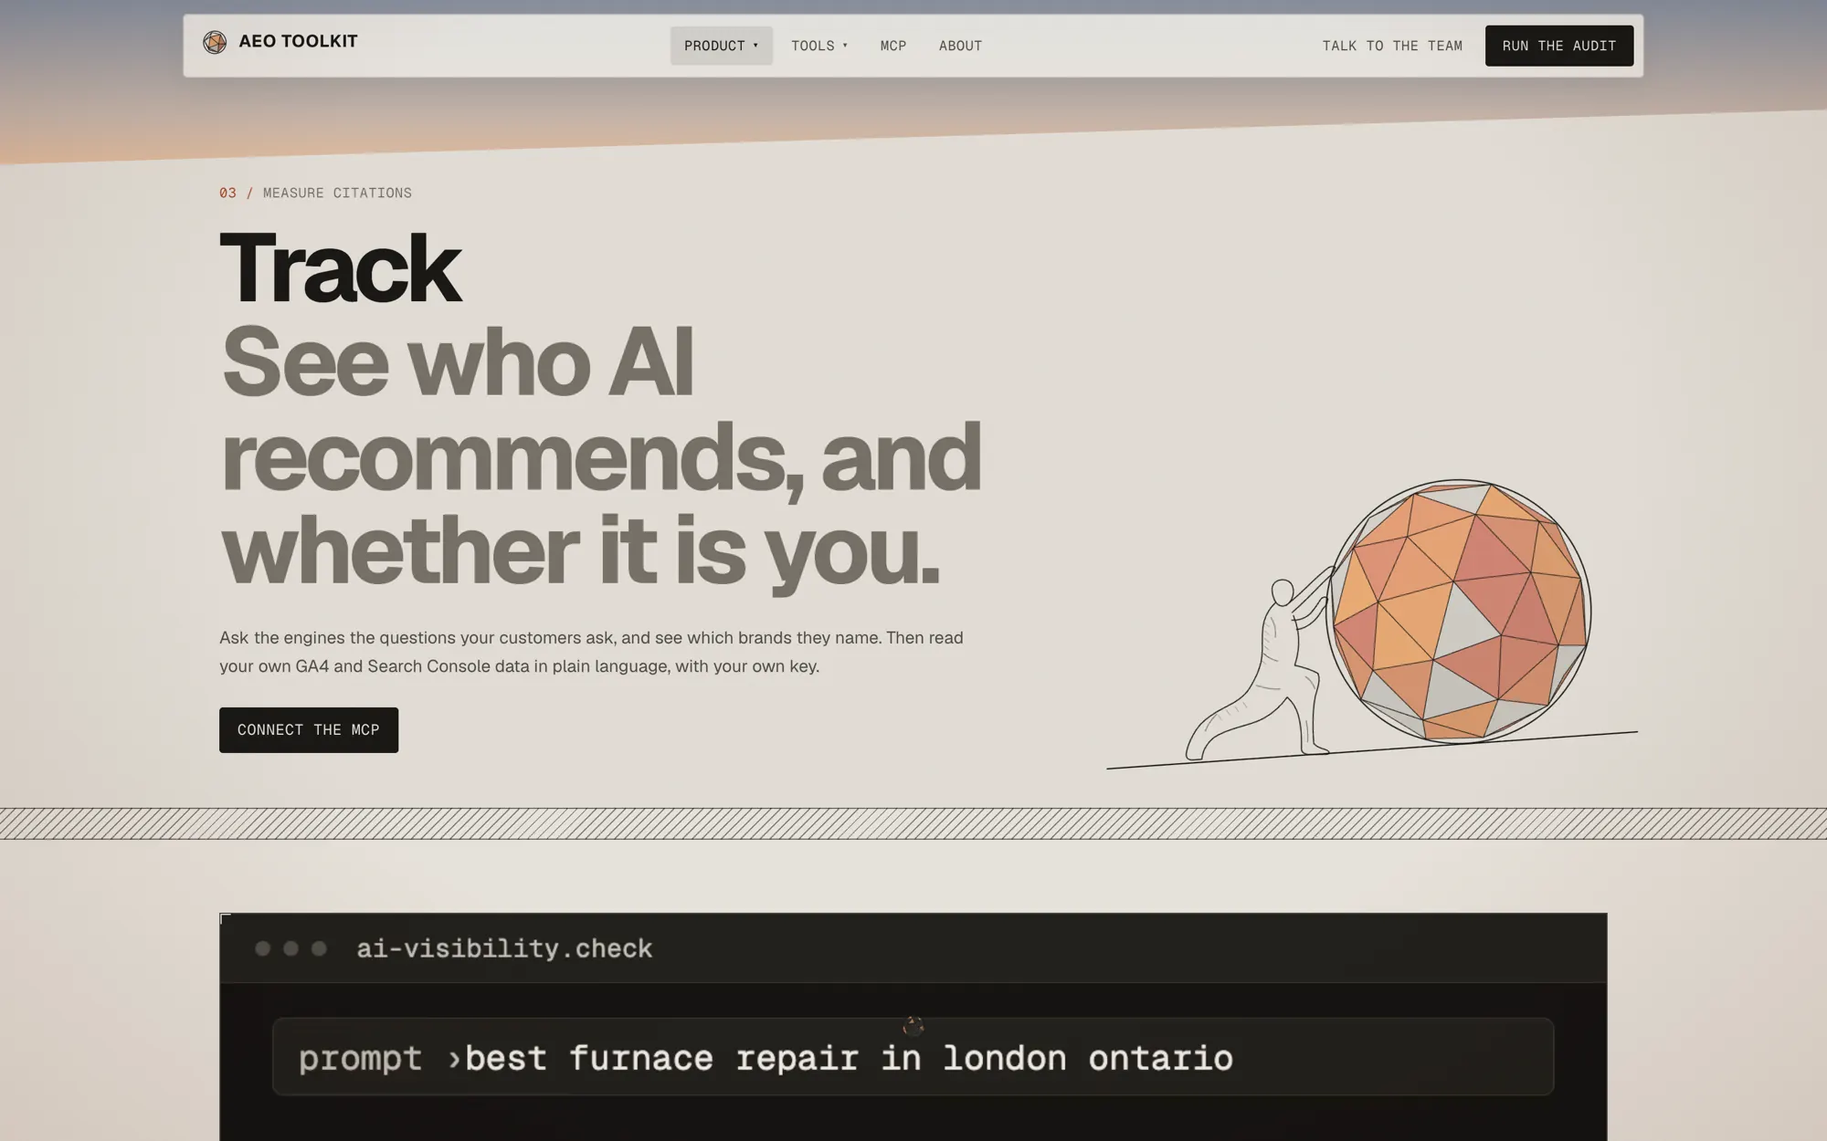
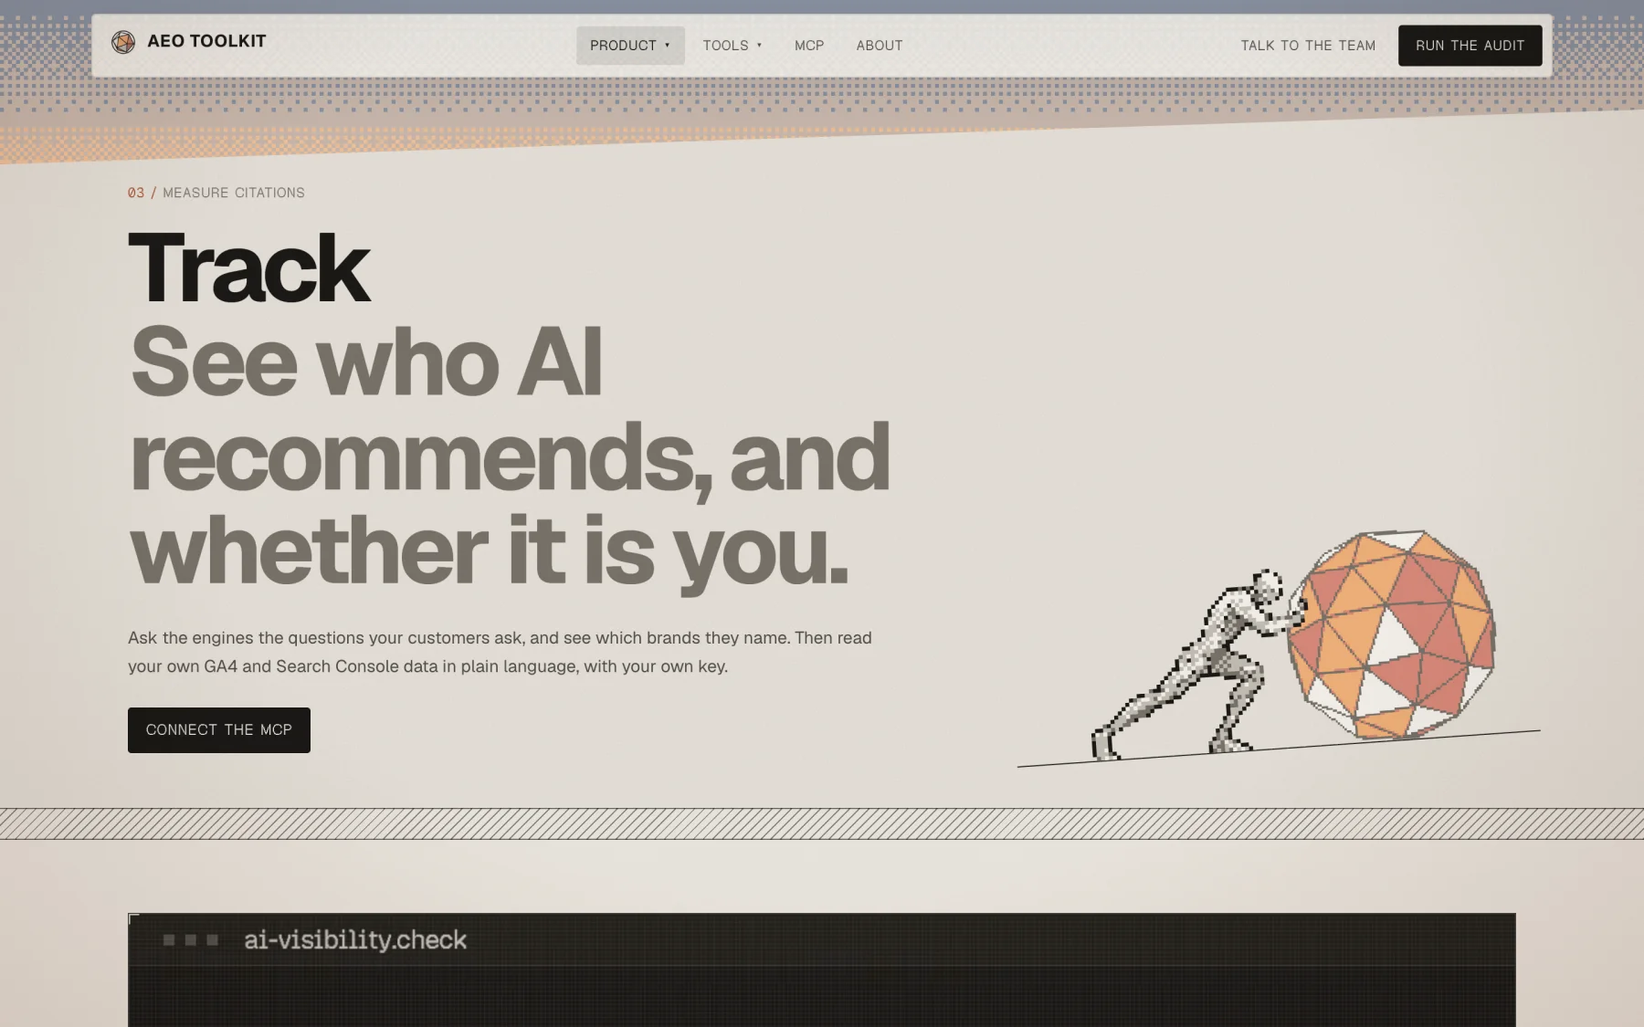
docs(readme): pixel-art branding refresh (#110)
* docs(readme): pixel-art branding refresh

* docs(brand): remove README em dashes, regenerate brand images in the pixel look

---------

Changed region(s): [[0.0, 0.0, 1.0, 0.7467], [0.0, 0.7778, 1.0, 1.0]]

diff --git a/README.md b/README.md
@@ -8,17 +8,17 @@
 
 Open-source AI search optimization: 44 small checks that decide whether ChatGPT, Claude and Perplexity cite you.
 
-<a href="https://advancelabs.dev/tools"><img src="docs/assets/banner.webp" alt="The AEO Toolkit homepage: 'The next big thing will be a lot of small things' beside a faceted sphere being pushed uphill" width="100%"></a>
+<a href="https://advancelabs.dev/tools"><img src="docs/assets/banner.webp" alt="The AEO Toolkit homepage in pixel art: 'The next big thing will be a lot of small things' above a dithered figure pushing a faceted sphere up a slope" width="100%"></a>
 
 [![TypeScript](https://img.shields.io/badge/TypeScript-5.x-3178C6?style=flat-square&logo=typescript&logoColor=white)](https://typescriptlang.org)
-[![License: Apache 2.0](https://img.shields.io/badge/License-Apache_2.0-A8F326?style=flat-square&labelColor=0A0A0B)](LICENSE)
-[![Made by Advance Labs](https://img.shields.io/badge/Made%20by-Advance%20Labs-7C3AED?style=flat-square&labelColor=0A0A0B)](https://advancelabs.dev)
-[![Brand](https://img.shields.io/badge/Brand-guide-B6A4FD?style=flat-square&labelColor=0A0A0B)](brand/README.md)
-[![Chrome Web Store](https://img.shields.io/badge/Chrome_Web_Store-AEO%2FGEO_Auditor-A8F326?style=flat-square&logo=googlechrome&logoColor=white&labelColor=0A0A0B)](https://chromewebstore.google.com/detail/aeogeo-auditor/bdkkjpbipgolopjhndknigaaokdabnad)
+[![License: Apache 2.0](https://img.shields.io/badge/License-Apache_2.0-F2B27A?style=flat-square&labelColor=1A1916)](LICENSE)
+[![Made by Advance Labs](https://img.shields.io/badge/Made%20by-Advance%20Labs-D98A7A?style=flat-square&labelColor=1A1916)](https://advancelabs.dev)
+[![Brand](https://img.shields.io/badge/Brand-guide-F2B27A?style=flat-square&labelColor=1A1916)](brand/README.md)
+[![Chrome Web Store](https://img.shields.io/badge/Chrome_Web_Store-AEO%2FGEO_Auditor-D98A7A?style=flat-square&logo=googlechrome&logoColor=white&labelColor=1A1916)](https://chromewebstore.google.com/detail/aeogeo-auditor/bdkkjpbipgolopjhndknigaaokdabnad)
 
 </div>
 
-> Open-source TypeScript packages for **Answer Engine Optimization (AEO)**, Generative Engine Optimization (GEO), and AI citation visibility. Contributions welcome — see [CONTRIBUTING.md](CONTRIBUTING.md).
+> Open-source TypeScript packages for **Answer Engine Optimization (AEO)**, Generative Engine Optimization (GEO), and AI citation visibility. Contributions welcome, see [CONTRIBUTING.md](CONTRIBUTING.md).
 
 > **Open core.** This repo is the open-source half of the AEO Toolkit: the audit engine, crawler,
 > parser, schema validator and the Chrome extension, all Apache-2.0 and published to npm. The
@@ -27,7 +27,7 @@ Open-source AI search optimization: 44 small checks that decide whether ChatGPT,
 > private repository on 2026-10-20. Code published here before that date stays Apache-2.0.
 
 **Try it without installing anything:** the six browser tools run free in the browser at
-**[advancelabs.dev/tools](https://advancelabs.dev/tools)** — no sign-up, no account.
+**[advancelabs.dev/tools](https://advancelabs.dev/tools)**, with no sign-up and no account.
 Point the auditor at a URL and it returns a weighted, per-rule report in about a minute.
 Want it done for you? Advance Labs runs a [monthly AEO retainer](https://advancelabs.dev/services/ai-visibility).
 
@@ -42,22 +42,22 @@ advancelabs.dev. This repo is the open core: the audit engine packages, the
 
 ## What it looks like
 
-The hosted site is a faceted sphere in which every facet is one of the audit's small checks.
+The hosted site is drawn in dithered pixel art: a figure pushing a faceted sphere up a slope under a dusk sky.
 
 | | |
 |---|---|
-| <img src="docs/assets/step-audit.webp" alt="Step one, crawl and score: a faceted sphere beside a live audit panel"> | <img src="docs/assets/44-checks.webp" alt="The 44 checks, laid out as a grid grouped by category"> |
-| **Crawl and score.** Up to 50 pages against every rule. | **44 small things.** Each check is open source. |
-| <img src="docs/assets/audit-tool.webp" alt="The LLM and Technical SEO Audit tool"> | <img src="docs/assets/track.webp" alt="The Track page: see who AI recommends, and whether it is you"> |
+| <img src="docs/assets/step-audit.webp" alt="Step one, crawl and score: a pixel-art faceted sphere beside a dark audit panel"> | <img src="docs/assets/44-checks.webp" alt="The 44 small things: a category list beside a carousel of check cards, each with its fix"> |
+| **Crawl and score.** Up to 50 pages against every rule. | **44 small things.** Pick a category and flip through the checks. The scoring engine is Apache-2.0. |
+| <img src="docs/assets/audit-tool.webp" alt="The LLM and Technical SEO Audit tool: a URL field and Run audit button on a dark panel"> | <img src="docs/assets/track.webp" alt="The Track page: the pixel figure pushing a dusk-coloured sphere beside the heading about who AI recommends"> |
 | **The audit tool.** Free, no sign-up. | **Track.** See who AI recommends. |
 
-<img src="docs/assets/mcp.webp" alt="The MCP page: connect the three servers to Claude and Cursor" width="100%">
+<img src="docs/assets/mcp.webp" alt="The MCP page: Connect the AEO Toolkit to your AI client" width="100%">
 
 ---
 
 ## What is AEO?
 
-**Answer Engine Optimization (AEO)** is the practice of structuring your content so that AI assistants — ChatGPT, Perplexity, Claude, Gemini — cite your site when answering questions in your domain. Traditional SEO gets you ranked on the blue-link results page. AEO gets you *quoted* in the AI answer.
+**Answer Engine Optimization (AEO)** is the practice of structuring your content so that AI assistants (ChatGPT, Perplexity, Claude, Gemini) cite your site when answering questions in your domain. Traditional SEO gets you ranked on the blue-link results page. AEO gets you *quoted* in the AI answer.
 
 As AI-powered search becomes the default discovery layer, AEO is the new SEO.
 
@@ -163,9 +163,9 @@ console.log(report.topFixes.slice(0, 3).map((f) => f.title))
 ## Connect the MCP servers
 
 The three MCP servers are **hosted, not installed**. They are Streamable-HTTP endpoints, so there is
-nothing to `npm install` and no local process to run — point any MCP client at the URL.
+nothing to `npm install` and no local process to run. Point any MCP client at the URL.
 
-**Claude Code** — one command per server:
+**Claude Code**: one command per server:
 
 ```bash
 claude mcp add --transport http --scope user aeo-visibility https://aeo.advancelabs.dev/api/mcp/ai-visibility/mcp
@@ -176,7 +176,7 @@ claude mcp add --transport http --scope user aeo-search     https://aeo.advancel
 Drop `--scope user` to register them in the current project only. Check the result with
 `claude mcp list`.
 
-**Claude.ai / Claude Desktop** — Settings → Connectors → Add custom connector, then paste the URL.
+**Claude.ai / Claude Desktop**: Settings → Connectors → Add custom connector, then paste the URL.
 
 **Cursor** (`~/.cursor/mcp.json`), Windsurf, or any client that takes a JSON block:
 
@@ -213,12 +213,12 @@ Three things that trip people up:
 
 ## Why AEO?
 
-When a user asks ChatGPT "what is the best tool for X?", the answer comes from indexed content that AI models trust — not from ad-auction bidding. The trust signals for AI citation are:
+When a user asks ChatGPT "what is the best tool for X?", the answer comes from indexed content that AI models trust, not from ad-auction bidding. The trust signals for AI citation are:
 
 - **Structured data** (JSON-LD `Organization`, `FAQPage`, `HowTo`)
-- **`llms.txt`** — the AI equivalent of `robots.txt`
-- **Canonical, server-rendered HTML** — AI crawlers prefer static content
-- **Topical authority** — consistent, in-depth coverage of a topic
+- **`llms.txt`**: the AI equivalent of `robots.txt`
+- **Canonical, server-rendered HTML**: AI crawlers prefer static content
+- **Topical authority**: consistent, in-depth coverage of a topic
 
 AEO Toolkit automates auditing all of these.
 
@@ -241,9 +241,11 @@ Built with [Turborepo](https://turbo.build) · TypeScript 5 · Vitest · React 1
 
 ## Design
 
-Advance Labs' products follow one visual system: a near-black ground, a single acid-green signal
-colour, mono lab-sheet labels, Syne headlines, and the Advance Labs sphere as the mark. The
-palette, type, tokens and rules are in [`brand/README.md`](brand/README.md), with the assets
+The site is pixel art: a figure pushing a faceted sphere under a dithered dusk sky. Art is drawn
+at a coarse cell, snapped to a small palette (ink, paper, two dusk oranges) with a 4x4 Bayer
+ordered dither and scaled up with hard edges. Labels use Geist Pixel Square, headings and body
+Geist Sans, code Geist Mono. Corners are square and shadows are hard-offset. The palette, type,
+tokens and rules are in [`brand/README.md`](brand/README.md), with the assets
 beside it. Anything a user sees should follow it, and
 [`docs/CONVENTIONS.md`](docs/CONVENTIONS.md#design-and-brand) says how in code.
 
@@ -253,16 +255,16 @@ beside it. Anything a user sees should follow it, and
 
 Built and maintained by [Advance Labs](https://advancelabs.dev) · [All Advance Labs products](https://advancelabs.dev/lab)
 
-AEO Toolkit is built and maintained by **[Advance Labs Inc.](https://advancelabs.dev)** — a software studio building [Creatin](https://www.creatin.ca), [Cartrix](https://www.cartrix.live), and this toolkit.
+AEO Toolkit is built and maintained by **[Advance Labs Inc.](https://advancelabs.dev)**, a software studio building [Creatin](https://www.creatin.ca), [Cartrix](https://www.cartrix.live), and this toolkit.
 
-This project dogfoods its own tooling: `advancelabs.dev` ships with `llms.txt`, JSON-LD Organization schema, SSG-rendered pages, and canonical URLs — all patterns the scoring engine teaches.
+This project dogfoods its own tooling: `advancelabs.dev` ships with `llms.txt`, JSON-LD Organization schema, SSG-rendered pages, and canonical URLs, all patterns the scoring engine teaches.
 
 ---
 
 ## Code of Conduct
 
-We follow the [Contributor Covenant](https://www.contributor-covenant.org/version/2/1/code_of_conduct/) — be respectful and constructive in all project spaces, and report unacceptable behavior to [conduct@advancelabs.dev](mailto:conduct@advancelabs.dev).
+We follow the [Contributor Covenant](https://www.contributor-covenant.org/version/2/1/code_of_conduct/): be respectful and constructive in all project spaces, and report unacceptable behavior to [conduct@advancelabs.dev](mailto:conduct@advancelabs.dev).
 
 ---
 
-<sub>© 2026 Advance Labs Inc. — <a href="https://advancelabs.dev">advancelabs.dev</a></sub>
+<sub>© 2026 Advance Labs Inc. · <a href="https://advancelabs.dev">advancelabs.dev</a></sub>

diff --git a/brand/README.md b/brand/README.md
@@ -1,115 +1,83 @@
-# AEO Toolkit — Brand
+# AEO Toolkit: Brand
 
 > **2026-10-20:** `apps/console` and the internal packages it uses moved to a private repository.
 > References to them below describe the hosted platform; the code is no longer in this repo.
 
-The brand that shipped with the September 2026 website redesign. In one line: **a calibrated
-instrument, printed.** Near-black ground, one acid-green signal colour, violet as the
-secondary, mono labels like the margin notes on a lab sheet, Syne headlines, and the AEO
-Toolkit mark, "the climb", a sphere with a rising line.
+The brand that shipped with the October 2026 pixel-art redesign. In one line: **a dusk sky, a
+figure and a sphere, drawn in coarse dithered pixels.** Warm paper ground, ink text, two dusk
+oranges as the only colour, Geist Pixel labels, and a faceted sphere as the mark. The line it
+carries: *The next big thing will be a lot of small things.*
 
 ## Mark
 
-The mark is **the climb**: the Advance Labs sphere carrying a Signal-green rising line. It
-replaces the plain sphere, which now stays the studio mark on advancelabs.dev only.
+The mark is the faceted sphere: flat facets, lit faces in dusk, unlit faces in card, lines in faint ink.
 
 | File | Use |
 |------|-----|
-| [`mark-256.png`](mark-256.png) | The mark alone, square, transparent. In-page logos, READMEs. |
-| [`icon-256.png`](icon-256.png) | The mark on a rounded `#0A0A0B` tile. Favicons, app icons, avatars. |
-| [`mark-512.png`](mark-512.png) | Same, for social cards, README and print. |
-| [`logo-dark.png`](logo-dark.png) | Horizontal lockup (mark + wordmark in Signal green) for **dark** backgrounds. Transparent. |
+| [`aeo-toolkit-mark-256.png`](aeo-toolkit-mark-256.png), [`mark-256.png`](mark-256.png), [`mark-512.png`](mark-512.png) | The mark alone, square, transparent. In-page logos, READMEs. `mark-512.png` is a 2x upscale of the 256 raster. |
+| [`mark.svg`](mark.svg) | Vector mark. |
+| [`icon-256.png`](icon-256.png) | The mark on a rounded paper tile (an app-icon exception to the square-corner rule), for avatars and app icons. |
 | [`logo.png`](logo.png) | Horizontal lockup (mark + wordmark in Ink) for **light** backgrounds. Transparent. |
-| [`logo-dark-preview.png`](logo-dark-preview.png) | The dark lockup composited on the `#0A0A0B` ground, for previews. |
-| [`social-preview.png`](social-preview.png) | 1280×640 card for the GitHub repository social preview (upload under Settings). |
-
-The mark is a raster with alpha; there is no vector version. The lockups (`logo*.png`,
-`social-preview.png`) still carry the plain sphere and are stale until regenerated with the new mark.
+| [`logo-dark.png`](logo-dark.png) | Horizontal lockup (mark on a Card tile, wordmark in Card) for **dark** backgrounds. Transparent. |
+| [`logo-dark-preview.png`](logo-dark-preview.png) | The dark lockup composited on the `#1a1916` ground, for previews. |
+| [`social-preview.png`](social-preview.png) | 1280×640 GitHub social card: the live hero with "AEO Toolkit · 44 checks · open core". Upload under Settings. |
 
 In `apps/console`, use `BrandMark` / `BrandLockup` from `src/components/BrandMark.tsx` rather
 than these files. The Chrome extension's icons are committed PNGs in
 `apps/chrome-extension/public/icons/`.
 
-## Wordmark
-
-**AEO Toolkit** in Syne Bold, tracking `-0.01em`. Signal `#A8F326` on dark grounds, Ink `#16150F`
-on light. Never gradient, never outlined, never a different face.
-
 ## Palette
 
 Roles first, hex second. In code, use the token, not the number.
 
-| Role | Hex | Token |
+| Role | Hex | Notes |
 |------|-----|-------|
-| Ground | `#0A0A0B` | `--bg`, `--v2-bg` |
-| Text | `#F4F4F5` | `--v2-text` |
-| Text, soft / faint | `#B6B6BD` / `#9A9AA6` | `--v2-ink-soft`, `--v2-ink-faint` |
-| Rule | `rgba(255,255,255,.09)` | `--v2-rule` |
-| **Signal** (the one accent) | `#A8F326` | `--v2-signal`, Tailwind `brand-cyan` (legacy name) |
-| Signal, hover | `#C3FF57` | `--v2-signal-hover` |
-| Secondary (violet) | `#B6A4FD` | `--v2-accent2`, Tailwind `brand-violet` |
-| Secondary, deep | `#7C3AED` | Tailwind `brand-indigo` (legacy name) |
-| Paper / Ink | `#F4F4F5` / `#16150F` | the printed report and specimen sheet |
-| OK / Warn | `#3FBF8A` / `#D9974F` | `--v2-ok`, `--v2-warn` (audit results only) |
+| Ink | `#1a1916` | Text, lines, primary buttons |
+| Faint | `#78736a` | Secondary text, facet lines, rgb 120 115 106 |
+| Stone | `#c4bfb6` | Rules, borders, disabled |
+| Card | `#f6f3ee` | Cards, unlit facets |
+| Page / concrete | `#ece8e1` | The page ground |
+| Dusk 1 | `#f2b27a` | Lit facets, highlights |
+| Dusk 2 | `#d98a7a` | Lit facets, the second dusk tone |
+| Accent text | `#a84b2a` | Numerals and small accent text only |
 
-Rules: one Signal element per view; violet never carries a call to action; no gradient text or
-gradient backgrounds; text is off-white on near-black, never pure white on pure black.
+The dusk sky is a dithered band: slate `#8a93a3`, then `#c9b8ad`, then peach `#f2c39a`, then `#e9a88f`.
 
-The Tailwind keys `brand.indigo` / `brand.violet` / `brand.cyan` in
-`apps/console/tailwind.config.ts` resolve to the new palette so existing classes render
-correctly; treat the names as historical and prefer the CSS variables in new code.
+Rules: lit facets are exactly Dusk 1 or Dusk 2, unlit facets are Card, lines are Faint ink. There is
+no green and no violet anywhere. No gradient text and no gradient backgrounds in the product.
+
+## Pixel rules
+
+- **Cell size.** Art is drawn at a coarse resolution, `CELL` = 3.5 screen px per art pixel, then
+  scaled up with hard edges (`image-rendering: pixelated`). Never smooth it.
+- **Dither.** Colour is snapped to the small palette with a 4×4 Bayer ordered dither. No error
+  diffusion, no blur, no anti-aliasing.
+- **Greys stay grey.** Grey pixels snap only to greys, so the figure never picks up dusk tint.
+- **Figure.** A 4-tone dithered cut-out of the brand art ("Low-Poly Figure Pushing Geometric Sphere"),
+  animated as an 8-frame push cycle.
+- **Flat facets.** Spheres are flat-shaded facets, never smooth gradients or lighting.
+- **Square corners.** No rounded corners. Elevation is a hard offset shadow, never a blur.
 
 ## Type
 
-| Role | Face | Token |
-|------|------|-------|
-| Wordmark and headlines | **Syne** 600–800 | `--font-brand`, `--font-display`, `--font-v2-display` |
-| Body | **Inter** (app), **Archivo** (landing) | `--font-sans`, `--font-v2-sans` |
-| Labels, numbers, code | **JetBrains Mono** (app), **IBM Plex Mono** (landing) | `--font-mono`, `--font-v2-mono` |
-| Editorial serif | **Instrument Serif** italic | `--font-v2-serif` |
+| Role | Face |
+|------|------|
+| Labels, nav, buttons | **Geist Pixel Square**, from the `geist` package (`geist/font/pixel`) |
+| Headings and body | **Geist Sans** |
+| Code and figures | **Geist Mono**, `tabular-nums` for numbers |
 
-Labels are mono, uppercase, tracked, and numbered like a lab sheet (`01 · ASK`). Figures are
-mono with `tabular-nums`. No exclamation marks; every number in copy traces to a file in this
-repo.
+Labels are uppercase and tracked, numbered like a lab sheet (`01 / CRAWL AND SCORE`). No
+exclamation marks; every number in copy traces to a file in this repo.
 
 ## Where the tokens live
 
-| What | File |
-|------|------|
-| App tokens | `apps/console/src/app/globals.css` |
-| Landing tokens and utilities (`v2-frame`, `v2-glass`, `v2-label`, `v2-brackets`) | `apps/console/src/components/landing-v2/landing-v2.css` |
-| Tailwind palette and fonts | `apps/console/tailwind.config.ts` |
-| Mark component | `apps/console/src/components/BrandMark.tsx` |
-| Favicon / app icons / OG cards | `apps/console/src/app/icon.png`, `apple-icon.png`, `src/lib/og.tsx` |
-| Docs site theme | `apps/docs/src/styles/brand.css` |
+The tokens and the pixel components (`pixel.ts`, `Sisyphus`, `SphereCanvas`, `sphere.ts`, and
+`.f-sky` / `.f-pixel` in `globals.css`) live in the console's `components/field/` folder and
+`apps/console/src/app/globals.css`, which are in the private repository. Mark component:
+`apps/console/src/components/BrandMark.tsx`. Docs site theme: `apps/docs/src/styles/brand.css`.
 
 ## Rules for the mark
 
 - Minimum size 16 px. Lockup at least 160 px wide.
 - Clear space around the mark of at least a quarter of its width.
-- Don't tint, outline, rotate, or put a ring behind the sphere; don't recolour or restyle the
-  wordmark; don't place either on a mid-grey ground where the off-white sphere loses its edge.
-
-## App icons: the mark carries its own ground
-
-Where we do **not** control the background, the sphere ships composited on a rounded `#0A0A0B`
-tile rather than on transparency. The sphere is off-white with no outline — measured on the
-128 px raster it is 56.7% transparent at a mean luminance of 155/255 — so on a white ground it
-very nearly disappears, and the Chrome Web Store listing card and the light-mode Chrome toolbar
-are both white. This is the same reason `logo-dark-preview.png` exists; an app icon is that
-problem in a smaller box.
-
-| Surface | Treatment |
-|---------|-----------|
-| Chrome extension icons (16/32/48/128) | Sphere on a rounded `#0A0A0B` tile, radius `size × 28/128` |
-| Favicons, app icons, avatars | Same, wherever the host renders on an unknown ground |
-| Anywhere we own the ground (site, docs, README on GitHub's dark UI) | The transparent mark, as above |
-
-The tile icons were produced at 16/32/48/64/128/180/192/256/512/1024 px with the sphere inset tightening as the tile shrinks (clear space yields to legibility at 16 px). They are committed rasters; regenerate from the master, do not hand-edit.
-
-## Previous brand
-
-The indigo→violet tile with the white "A" and cyan sparkle (`#6366F1` / `#8B5CF6` / `#22D3EE`)
-was retired with the September 2026 redesign, along with the aurora backdrop and gradient text.
-Its SVGs were removed from this folder, as were `@advance-labs/ui`'s `Logo` / `LogoMark`
-components that drew it.
+- Don't tint, outline, rotate, or smooth the sphere; don't recolour or restyle the wordmark.

diff --git a/docs/CONVENTIONS.md b/docs/CONVENTIONS.md
@@ -101,13 +101,16 @@ anything a user sees.
   and `landing-v2.css` (`--bg`, `--v2-signal`, `--v2-rule`, …) or the Tailwind palette in
   `tailwind.config.ts`. A literal hex in a component is a review comment unless it is the graph
   palette or an OG image.
-- **One Signal per view.** `#A8F326` marks the primary action or the live figure. The second
-  green on a screen is a bug.
-- **The mark is the Advance Labs sphere**, rendered through `BrandMark` / `BrandLockup` in
+- **Two dusk tones, no green, no violet.** Colour is Dusk 1 `#f2b27a` and Dusk 2 `#d98a7a` on
+  ink `#1a1916` and paper `#ece8e1`. Anything else is a bug.
+- **Pixel art stays pixel art.** Coarse cell, 4x4 Bayer dither, hard-edged upscaling, flat facets,
+  square corners, hard-offset shadows. No blur, no smoothing, no rounded corners.
+- **The mark is the faceted sphere**, rendered through `BrandMark` / `BrandLockup` in
   `apps/console/src/components/BrandMark.tsx`. Don't inline logos, don't reintroduce the old tile
   (`@advance-labs/ui`'s `Logo` is deprecated), don't tint the sphere.
-- **Labels are mono and uppercase; headlines are Syne; numbers are tabular.** Copy carries no
-  exclamation marks, and every figure in it must trace to a file in this repo.
+- **Labels are Geist Pixel Square, uppercase; headings and body are Geist Sans; code is Geist Mono.**
+  Numbers are tabular. Copy carries no exclamation marks, and every figure in it must trace to a
+  file in this repo.
 - **Motion is opt-in.** Gate scroll and pointer effects on `prefers-reduced-motion` and
   `(hover: hover)`; the page must render complete without them.
 - **Cosmetic PRs stay cosmetic.** A design change touches `apps/console` (and `packages/ui` only
